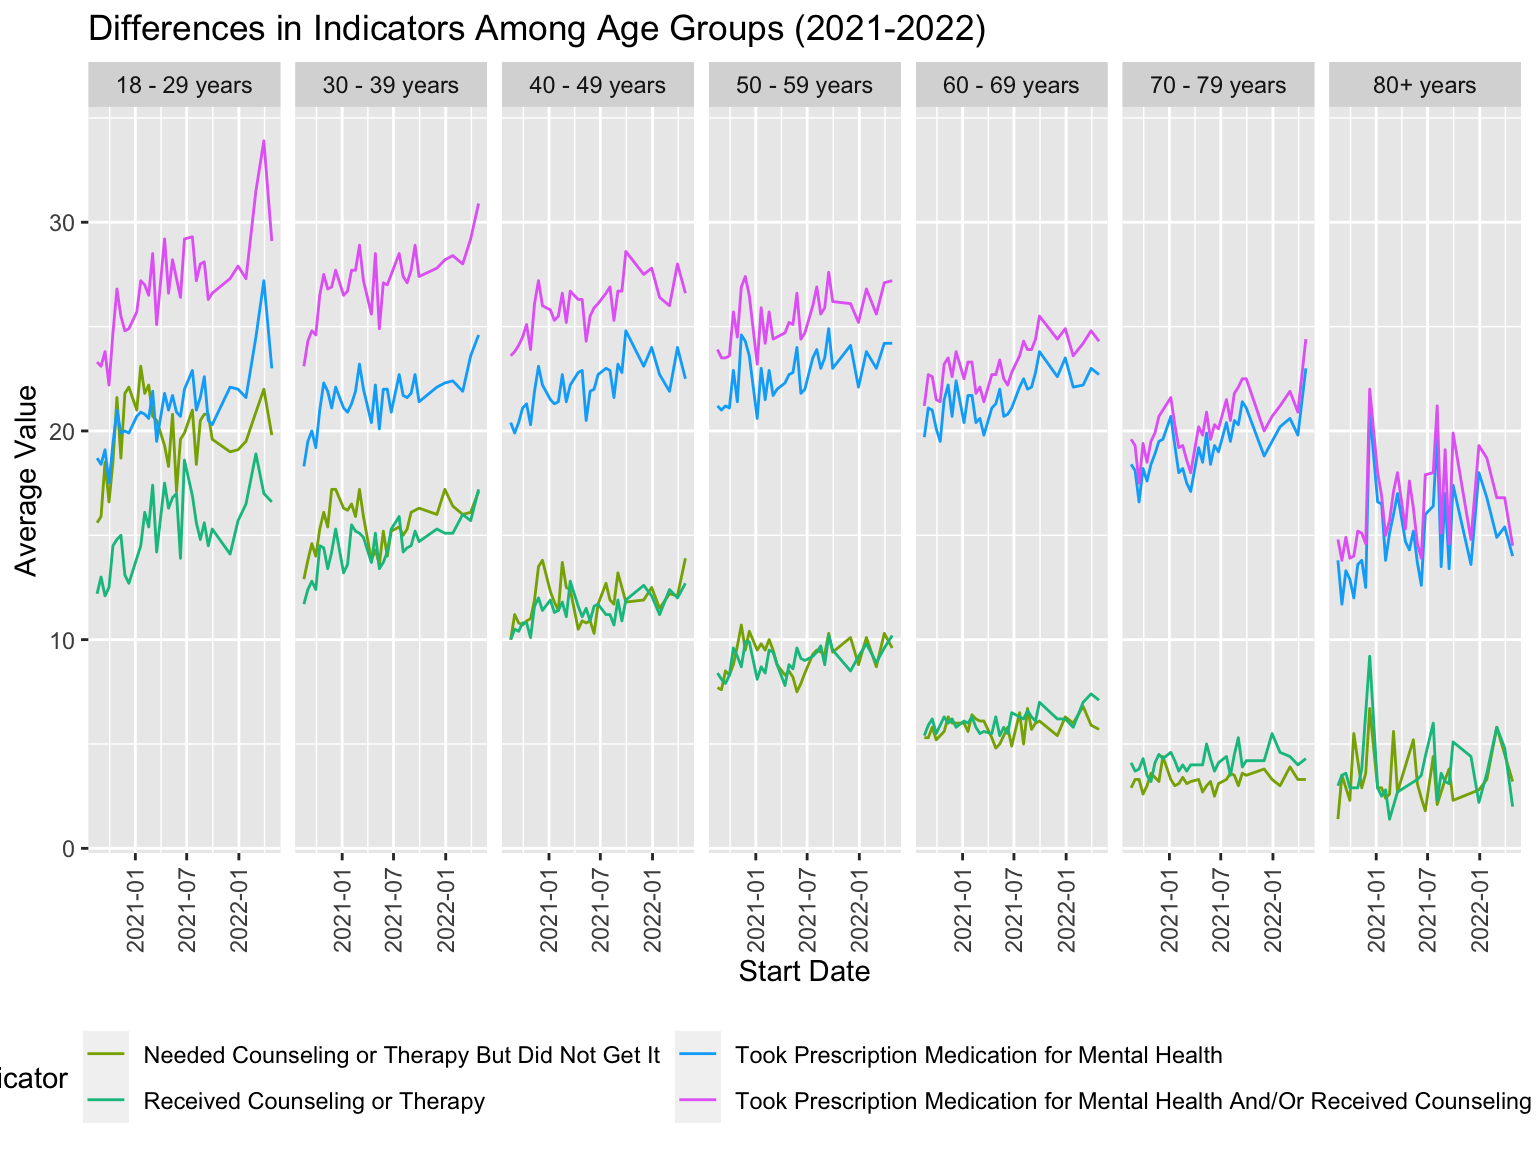
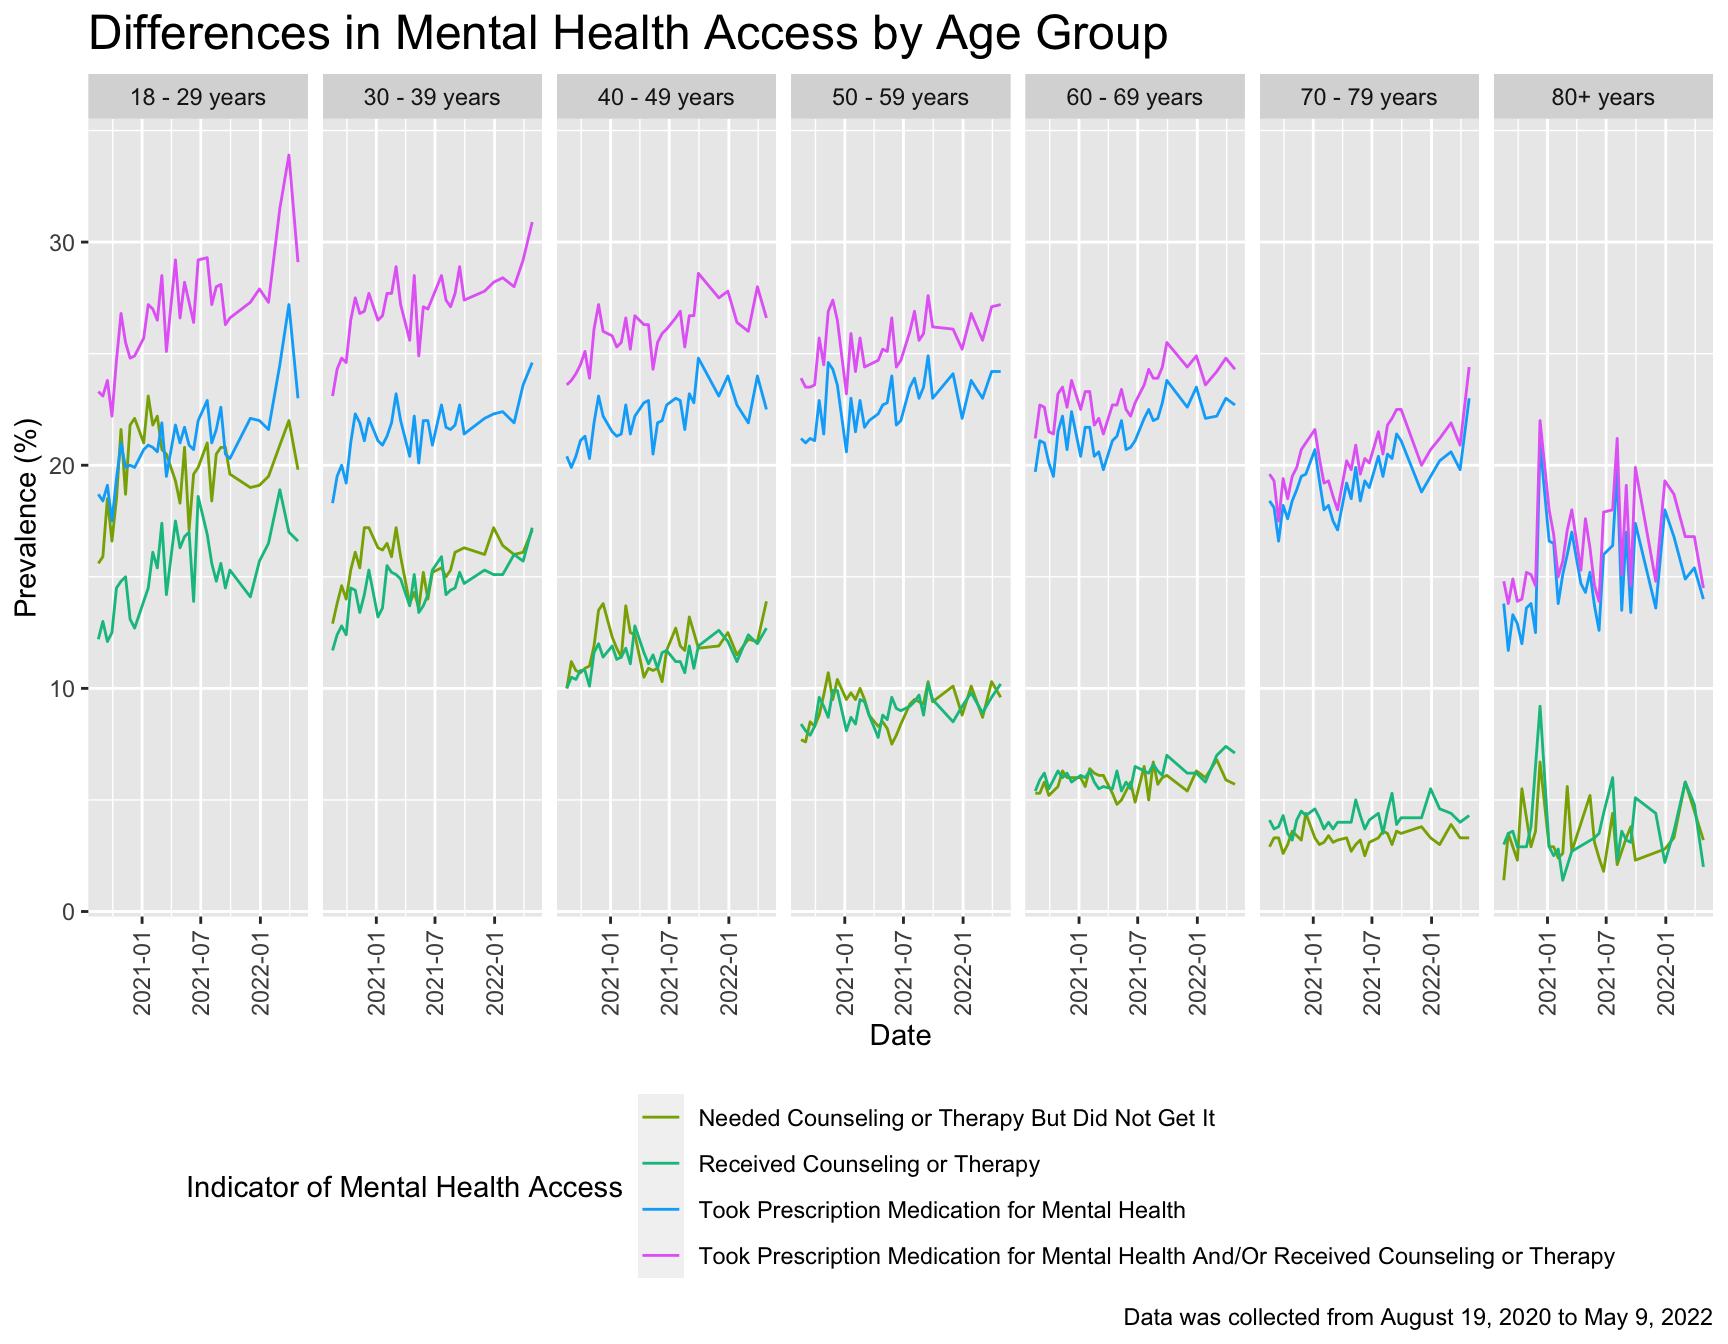
formatted EDA demographics section

diff --git a/eda_demographic.html b/eda_demographic.html
@@ -11,7 +11,7 @@
 
 
 
-<title>Exploratory Data Analysis (EDA)</title>
+<title>EDA by Demopgrahics</title>
 
 <script src="site_libs/header-attrs-2.24/header-attrs.js"></script>
 <script src="site_libs/jquery-3.6.0/jquery-3.6.0.min.js"></script>
@@ -374,13 +374,14 @@ div.tocify {
 
 
 
-<h1 class="title toc-ignore">Exploratory Data Analysis (EDA)</h1>
+<h1 class="title toc-ignore">EDA by Demopgrahics</h1>
 
 </div>
 
 
-<pre><code>##  [1] &quot;#440154FF&quot; &quot;#482878FF&quot; &quot;#3E4A89FF&quot; &quot;#31688EFF&quot; &quot;#26828EFF&quot; &quot;#1F9E89FF&quot;
-##  [7] &quot;#35B779FF&quot; &quot;#6DCD59FF&quot; &quot;#B4DE2CFF&quot; &quot;#FDE725FF&quot;</code></pre>
+<p>This page explores trends in mental health access by demographic
+characteristics: age group, education level, gender, sexual orientation,
+and race/ethnicity.</p>
 <div id="age-group" class="section level2">
 <h2>Age Group</h2>
 <p>I started by filtering the tidy dataset to only include age and
@@ -403,16 +404,19 @@ age_plot |&gt;
   geom_line() +
   facet_grid(. ~ subgroup) +
   labs(
-    x = &quot;Start Date&quot;,
-    y = &quot;Average Value&quot;,
-    title = &quot;Differences in Indicators Among Age Groups (2021-2022)&quot;) +
+    x = &quot;Date&quot;,
+    y = &quot;Prevalence (%)&quot;,
+    title = &quot;Differences in Mental Health Access by Age Group&quot;,
+    caption = &quot;Data was collected from August 19, 2020 to May 9, 2022&quot;,
+    color = &quot;Indicator of Mental Health Access&quot;) +
   theme_gray() +
   theme(
     legend.position = &quot;bottom&quot;,
+    plot.title = element_text(size = 18),
     axis.text.x = element_text(angle = 90, vjust = 0.5, hjust = 1)  # Rotate x-axis labels vertically
   ) +
   scale_color_hue(h = c(100, 300)) +
-  guides(color = guide_legend(nrow = 2)) # Adding the legend guide adjustment</code></pre>
+  guides(color = guide_legend(nrow = 4)) # Adding the legend guide adjustment</code></pre>
 <p><img src="eda_demographic_files/figure-html/age-1.png" width="90%" /></p>
 <p>Critical findings:</p>
 <p>Based on the graph, it is clear that among the age groups, 18-29 have
@@ -450,16 +454,19 @@ ed_plot=
   geom_line() +
   facet_grid(. ~ ed_name) +
   labs(
-    x = &quot;Start Date&quot;,
-    y = &quot;Average Value&quot;,
-    title = &quot;Differences in Indicators by Education Levels (2021-2022)&quot;) +
+    x = &quot;Date&quot;,
+    y = &quot;Prevalence (%)&quot;,
+    title = &quot;Differences in Mental Health Access by Education Level&quot;,
+    caption = &quot;Data was collected from August 19, 2020 to May 9, 2022&quot;,
+    color = &quot;Indicator of Mental Health Access&quot;) +
   theme_gray() +
   theme(
     legend.position = &quot;bottom&quot;,
+    plot.title = element_text(size = 18),
     axis.text.x = element_text(angle = 90, vjust = 0.5, hjust = 1)  # Rotate x-axis labels vertically
   ) +
   scale_color_hue(h = c(100, 300)) +
-  guides(color = guide_legend(nrow = 2)) # Adding the legend guide adjustment
+  guides(color = guide_legend(nrow = 4)) # Adding the legend guide adjustment
 
 #View the education plot
 ed_plot</code></pre>
@@ -498,13 +505,15 @@ trends slightly increased each year from 2020 to 2022.</p>
   theme_gray() +
   theme(
     legend.position = &quot;bottom&quot;,
+    plot.title = element_text(size = 18),
     axis.text.x = element_text(angle = 90, vjust = 0.5, hjust = 1)) +
-  guides(color = guide_legend(nrow = 2)) +
+  guides(color = guide_legend(nrow = 4)) +
     labs(
     x = &quot;Date&quot;,
     y = &quot;Prevalence (%)&quot;,
     title = &quot;Differences in Mental Health Access by Gender&quot;,
-    caption = &quot;Data was collected from August 19, 2020 to May 9, 2022&quot;)</code></pre>
+    caption = &quot;Data was collected from August 19, 2020 to May 9, 2022&quot;,
+    color = &quot;Indicator of Mental Health Access&quot;)</code></pre>
 <p><img src="eda_demographic_files/figure-html/gender-1.png" width="90%" /></p>
 </div>
 <div id="sexual-orientation" class="section level2">
@@ -526,13 +535,15 @@ reported the least unmet need for counseling or therapy.</p>
   theme_grey() +
   theme(
     legend.position = &quot;bottom&quot;,
+    plot.title = element_text(size = 18),
     axis.text.x = element_text(angle = 90, vjust = 0.5, hjust = 1)) +
-  guides(color = guide_legend(nrow = 2)) +
+  guides(color = guide_legend(nrow = 4)) +
     labs(
     x = &quot;Date&quot;,
     y = &quot;Prevalence (%)&quot;,
     title = &quot;Differences in Mental Health Access by Sexual Orientation&quot;,
-    caption = &quot;Data was collected from August 18, 2021 to May 9, 2022&quot;)</code></pre>
+    caption = &quot;Data was collected from August 18, 2021 to May 9, 2022&quot;,
+    color = &quot;Indicator of Mental Health Access&quot;)</code></pre>
 <p><img src="eda_demographic_files/figure-html/sexuality-1.png" width="90%" /></p>
 </div>
 <div id="raceethnicity" class="section level2">
@@ -558,13 +569,15 @@ did not receive it.</p>
   theme_grey() +
   theme(
     legend.position = &quot;bottom&quot;,
+    plot.title = element_text(size = 18),
     axis.text.x = element_text(angle = 90, vjust = 0.5, hjust = 1)) +
-  guides(color = guide_legend(nrow = 2)) +
+  guides(color = guide_legend(nrow = 4)) +
   labs(
     x = &quot;Date&quot;,
     y = &quot;Prevalence (%)&quot;,
     title = &quot;Differences in Mental Health Access by Race&quot;,
-    caption = &quot;Data was collected from August 19, 2020 to May 9, 2022&quot;)</code></pre>
+    caption = &quot;Data was collected from August 19, 2020 to May 9, 2022&quot;,
+    color = &quot;Indicator of Mental Health Access&quot;)</code></pre>
 <p><img src="eda_demographic_files/figure-html/race%20ethnicity-1.png" width="90%" /></p>
 </div>
 
